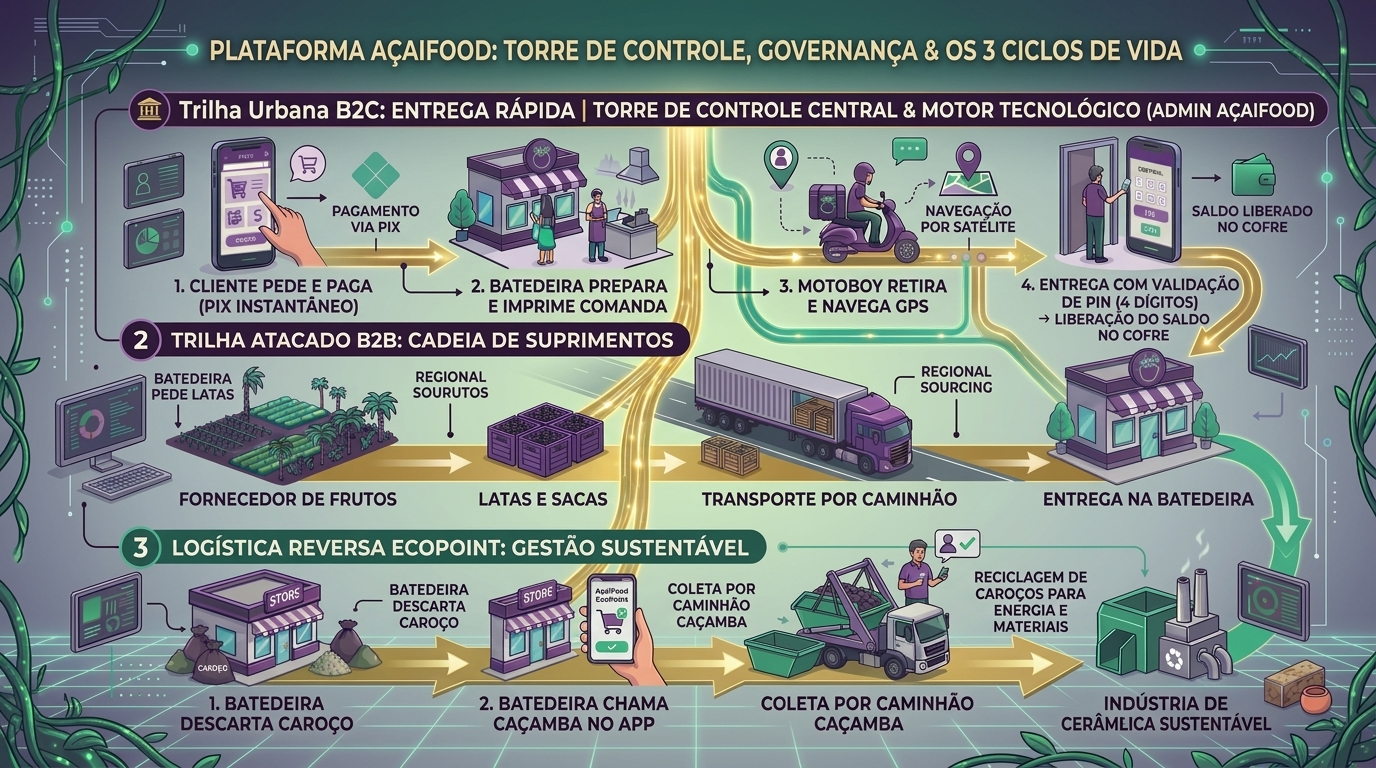
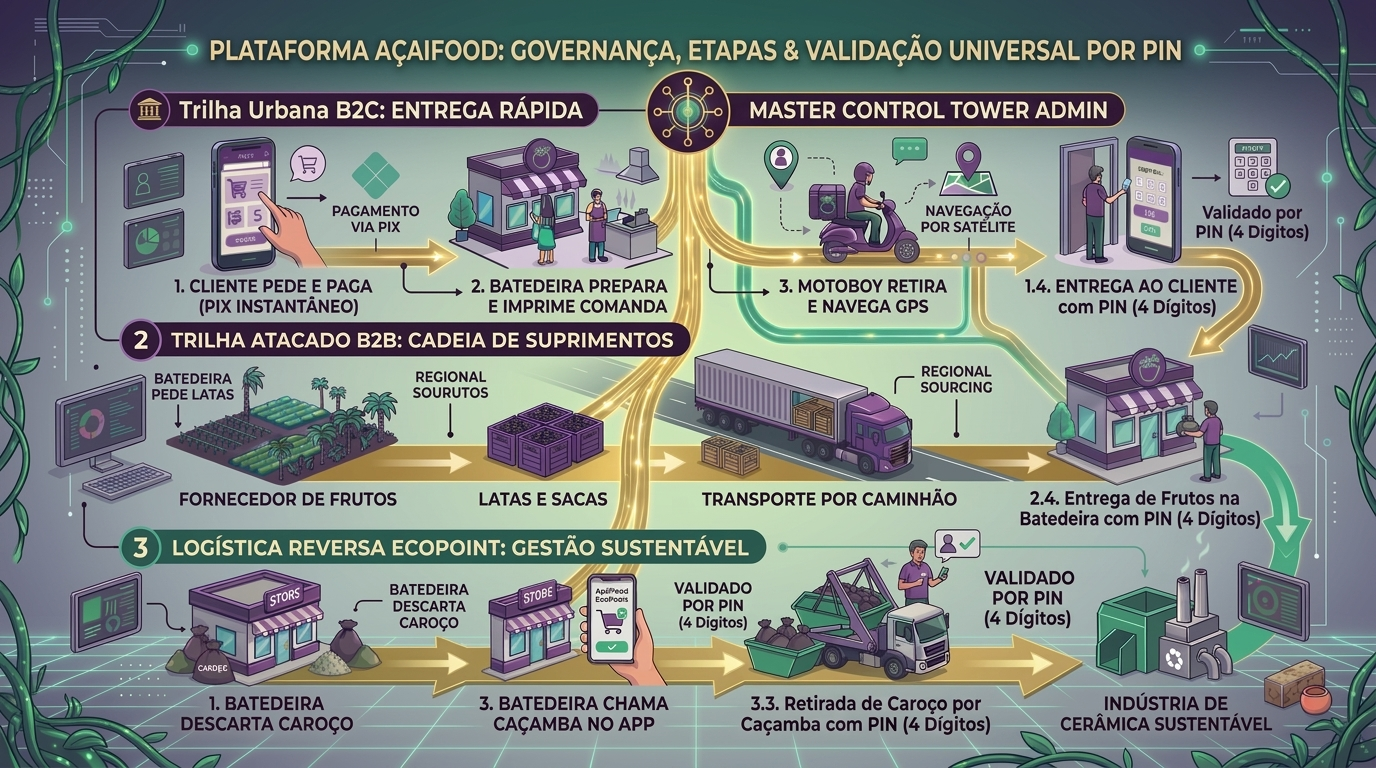
docs: enumerate all steps and highlight 3 PIN validation checkpoints (b2c delivery, b2b fruit delivery, ecopoint seed collection)

diff --git a/CICLO_DE_VIDA_FLUXOS_COM_ADMIN_GESTAO.html b/CICLO_DE_VIDA_FLUXOS_COM_ADMIN_GESTAO.html
@@ -3,7 +3,7 @@
 <head>
   <meta charset="UTF-8">
   <meta name="viewport" content="width=device-width, initial-scale=1.0">
-  <title>AçaíFood — Torre de Controle, Governança & 3 Ciclos de Vida</title>
+  <title>AçaíFood — Governança, Etapas & Validação Universal por PIN</title>
   <script src="https://cdn.tailwindcss.com"></script>
   <link href="https://fonts.googleapis.com/css2?family=Plus+Jakarta+Sans:wght@400;600;700;800;900&display=swap" rel="stylesheet">
   <style>
@@ -23,12 +23,12 @@
     <header class="flex flex-col sm:flex-row items-start sm:items-center justify-between gap-4 border-b border-zinc-800 pb-6">
       <div>
         <div class="flex items-center gap-3">
-          <span class="text-3xl">🏛</span>
+          <span class="text-3xl">🔐</span>
           <h1 class="text-3xl sm:text-4xl font-black tracking-tight text-white">
-            AçaíFood <span class="text-amber-400">Torre de Controle & Motor Tecnológico</span>
+            AçaíFood <span class="text-amber-400">Governança, Etapas & Segurança por PIN</span>
           </h1>
         </div>
-        <p class="text-zinc-400 text-sm mt-1">Supervisão em Tempo Real, Governança Financeira, Telemetria GPS e Gestão Integrada dos 3 Ciclos de Vida</p>
+        <p class="text-zinc-400 text-sm mt-1">Validação Universal por PIN de 4 Dígitos nos 3 Momentos Críticos de Entrega e Coleta Física</p>
       </div>
       <div class="flex items-center gap-3 no-print">
         <button onclick="window.print()" class="px-4 py-2 bg-amber-600 hover:bg-amber-500 text-white font-bold rounded-xl shadow-lg transition active:scale-95 text-sm flex items-center gap-2 cursor-pointer">
@@ -41,55 +41,60 @@
     <section class="bg-zinc-900 border border-zinc-800 rounded-3xl p-4 sm:p-6 shadow-2xl flex flex-col items-center">
       <div class="w-full flex items-center justify-between mb-4">
         <h2 class="text-xl font-bold text-amber-400 flex items-center gap-2">
-          📡 O Coração da Plataforma: Gestão Unificada & Motor Tecnológico
+          🗺 Infográfico Completo: Etapas Enumeradas & Checkpoints de PIN
         </h2>
-        <span class="text-xs bg-amber-500/10 text-amber-300 px-3 py-1 rounded-full border border-amber-500/20 font-semibold">Torre de Controle 24/7</span>
+        <span class="text-xs bg-amber-500/10 text-amber-300 px-3 py-1 rounded-full border border-amber-500/20 font-semibold">100% Blindado com PIN</span>
       </div>
       <div class="w-full rounded-2xl overflow-hidden border border-zinc-800 bg-zinc-950 flex items-center justify-center p-2">
-        <img src="./torre_controle_admin_master.jpg" alt="AçaíFood Torre de Controle e Gestão dos Ciclos Operacionais" class="max-w-full h-auto object-contain rounded-xl shadow-xl">
+        <img src="./torre_controle_admin_master.jpg" alt="AçaíFood Governança, Etapas e Validação por PIN" class="max-w-full h-auto object-contain rounded-xl shadow-xl">
       </div>
     </section>
 
-    <!-- OS 5 MOTORES TECNOLÓGICOS POR TRÁS DA PLATAFORMA -->
-    <div class="grid grid-cols-1 md:grid-cols-5 gap-4">
+    <!-- OS 3 CHECKPOINTS DE PIN DE 4 DÍGITOS -->
+    <div class="grid grid-cols-1 md:grid-cols-3 gap-6">
       
-      <div class="bg-zinc-900/90 border border-purple-900/50 rounded-2xl p-4 flex flex-col justify-between">
+      <!-- CHECKPOINT 1: B2C -->
+      <div class="bg-zinc-900/90 border border-purple-900/50 rounded-2xl p-5 flex flex-col justify-between">
         <div>
-          <div class="text-purple-400 font-extrabold text-xs uppercase mb-1">💳 Motor 1</div>
-          <h4 class="font-bold text-sm text-white mb-2">Split Asaas & Cofre Digital</h4>
-          <p class="text-zinc-400 text-xs leading-relaxed">Emissão de Pix BACEN EMV-Co, retenção segura em custódia e liquidação automática entre batedeira, motoboy, fornecedor e caçamba.</p>
+          <div class="flex items-center gap-2 text-purple-400 font-extrabold text-xs uppercase mb-2">
+            <span class="bg-purple-500/20 text-purple-300 w-6 h-6 rounded-lg flex items-center justify-center font-bold">1</span>
+            Checkpoint 1.4: Entrega ao Cliente
+          </div>
+          <h4 class="font-bold text-base text-white mb-2">PIN Cliente ➔ Motoboy</h4>
+          <p class="text-zinc-300 text-xs leading-relaxed mb-3">O cliente informa o PIN de 4 dígitos na porta. O motoboy digita no app para concluir a corrida.</p>
+          <div class="bg-purple-950/40 border border-purple-800/40 rounded-xl p-3 text-xs text-purple-200">
+            <strong>Impacto:</strong> Descongela e libera instantaneamente o saldo da venda para a Batedeira e o frete para o Motoboy no Cofre Asaas.
+          </div>
         </div>
       </div>
 
-      <div class="bg-zinc-900/90 border border-cyan-900/50 rounded-2xl p-4 flex flex-col justify-between">
+      <!-- CHECKPOINT 2: B2B -->
+      <div class="bg-zinc-900/90 border border-blue-900/50 rounded-2xl p-5 flex flex-col justify-between">
         <div>
-          <div class="text-cyan-400 font-extrabold text-xs uppercase mb-1">🛰 Motor 2</div>
-          <h4 class="font-bold text-sm text-white mb-2">Telemetria & Radar GPS</h4>
-          <p class="text-zinc-400 text-xs leading-relaxed">Roteamento inteligente por OSRM, cálculo dinâmico de fretes urbanos/regionais e despacho geolocalizado de frotas.</p>
+          <div class="flex items-center gap-2 text-blue-400 font-extrabold text-xs uppercase mb-2">
+            <span class="bg-blue-500/20 text-blue-300 w-6 h-6 rounded-lg flex items-center justify-center font-bold">2</span>
+            Checkpoint 2.4: Entrega de Frutos
+          </div>
+          <h4 class="font-bold text-base text-white mb-2">PIN Batedeira ➔ Caminhoneiro</h4>
+          <p class="text-zinc-300 text-xs leading-relaxed mb-3">Após descarregar e conferir as latas/sacas na loja, a Batedeira informa o PIN de 4 dígitos ao motorista do caminhão.</p>
+          <div class="bg-blue-950/40 border border-blue-800/40 rounded-xl p-3 text-xs text-blue-200">
+            <strong>Impacto:</strong> Libera o pagamento do lote ao Fornecedor e o frete pesado ao Caminhoneiro com garantia de entrega física.
+          </div>
         </div>
       </div>
 
-      <div class="bg-zinc-900/90 border border-amber-900/50 rounded-2xl p-4 flex flex-col justify-between">
+      <!-- CHECKPOINT 3: ECOPOINT -->
+      <div class="bg-zinc-900/90 border border-emerald-900/50 rounded-2xl p-5 flex flex-col justify-between">
         <div>
-          <div class="text-amber-400 font-extrabold text-xs uppercase mb-1">🔒 Motor 3</div>
-          <h4 class="font-bold text-sm text-white mb-2">PIN Criptográfico Antifraude</h4>
-          <p class="text-zinc-400 text-xs leading-relaxed">Nenhum repasse financeiro ocorre sem validação presencial do PIN de 4 dígitos na entrega, eliminando chargebacks e contestações.</p>
-        </div>
-      </div>
-
-      <div class="bg-zinc-900/90 border border-blue-900/50 rounded-2xl p-4 flex flex-col justify-between">
-        <div>
-          <div class="text-blue-400 font-extrabold text-xs uppercase mb-1">📦 Motor 4</div>
-          <h4 class="font-bold text-sm text-white mb-2">Ledger B2B & Abastecimento</h4>
-          <p class="text-zinc-400 text-xs leading-relaxed">Gestão da cadeia de suprimentos de latas e sacas de açaí, cotações em tempo real e controle de frete pesado rodoviário/fluvial.</p>
-        </div>
-      </div>
-
-      <div class="bg-zinc-900/90 border border-emerald-900/50 rounded-2xl p-4 flex flex-col justify-between">
-        <div>
-          <div class="text-emerald-400 font-extrabold text-xs uppercase mb-1">♻ Motor 5</div>
-          <h4 class="font-bold text-sm text-white mb-2">Créditos ESG & EcoPoint</h4>
-          <p class="text-zinc-400 text-xs leading-relaxed">Rastreabilidade integral das toneladas de caroço recolhidas por caminhões caçamba para geração de biomassa, cerâmicas e adubagem.</p>
+          <div class="flex items-center gap-2 text-emerald-400 font-extrabold text-xs uppercase mb-2">
+            <span class="bg-emerald-500/20 text-emerald-300 w-6 h-6 rounded-lg flex items-center justify-center font-bold">3</span>
+            Checkpoint 3.3: Retirada de Caroço
+          </div>
+          <h4 class="font-bold text-base text-white mb-2">PIN Batedeira ➔ Caçamba</h4>
+          <p class="text-zinc-300 text-xs leading-relaxed mb-3">Ao carregar os sacos de caroço no caminhão caçamba, a Batedeira valida o PIN de 4 dígitos com o operador da caçamba.</p>
+          <div class="bg-emerald-950/40 border border-emerald-800/40 rounded-xl p-3 text-xs text-emerald-200">
+            <strong>Impacto:</strong> Registra a baixa oficial dos resíduos na loja e valida os créditos de sustentabilidade/ESG no ledger da plataforma.
+          </div>
         </div>
       </div>
 
